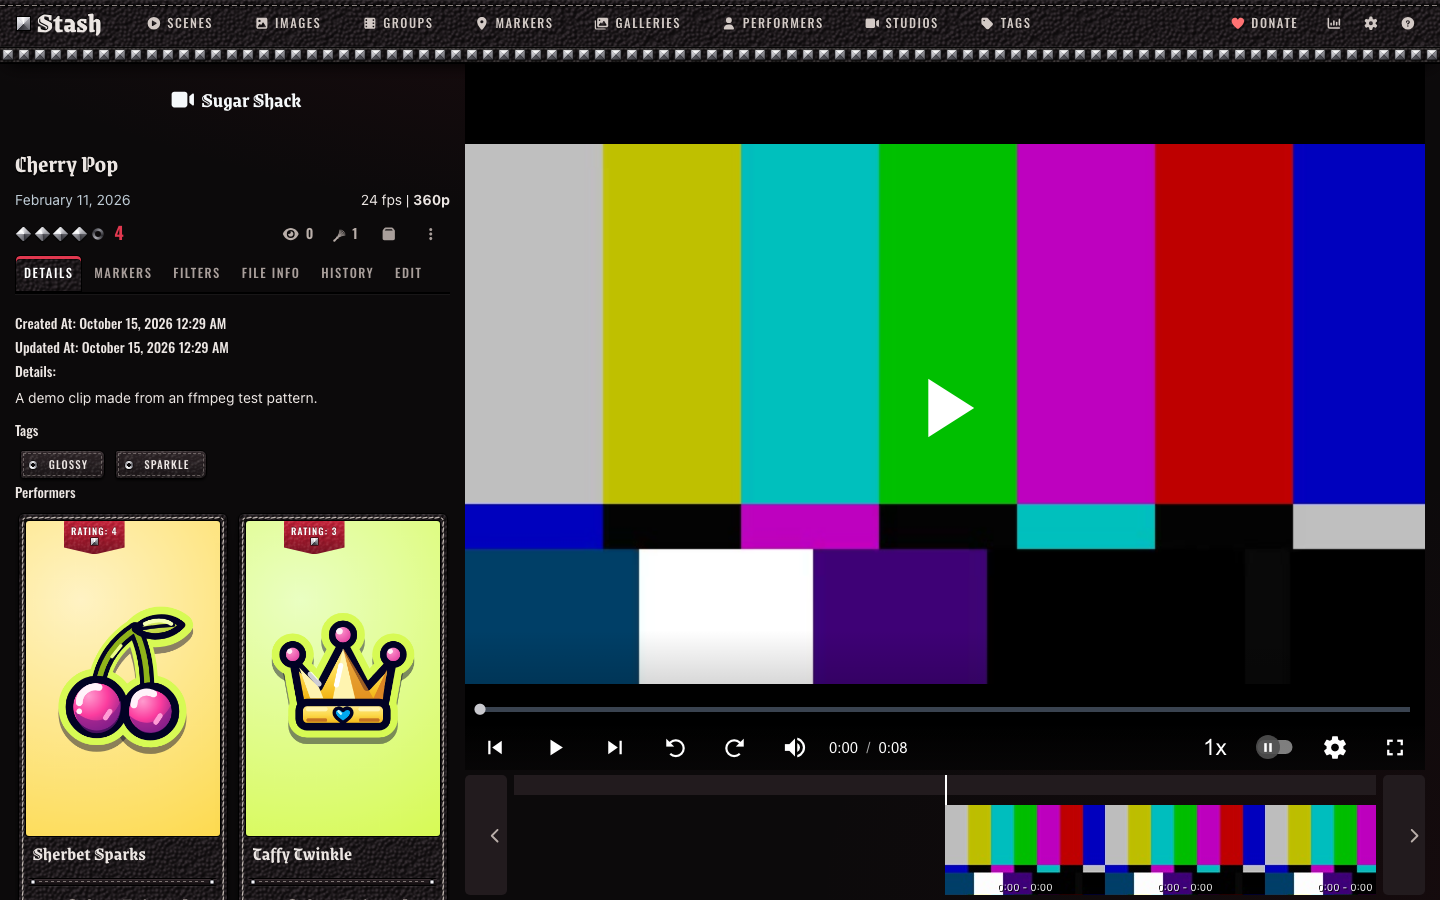
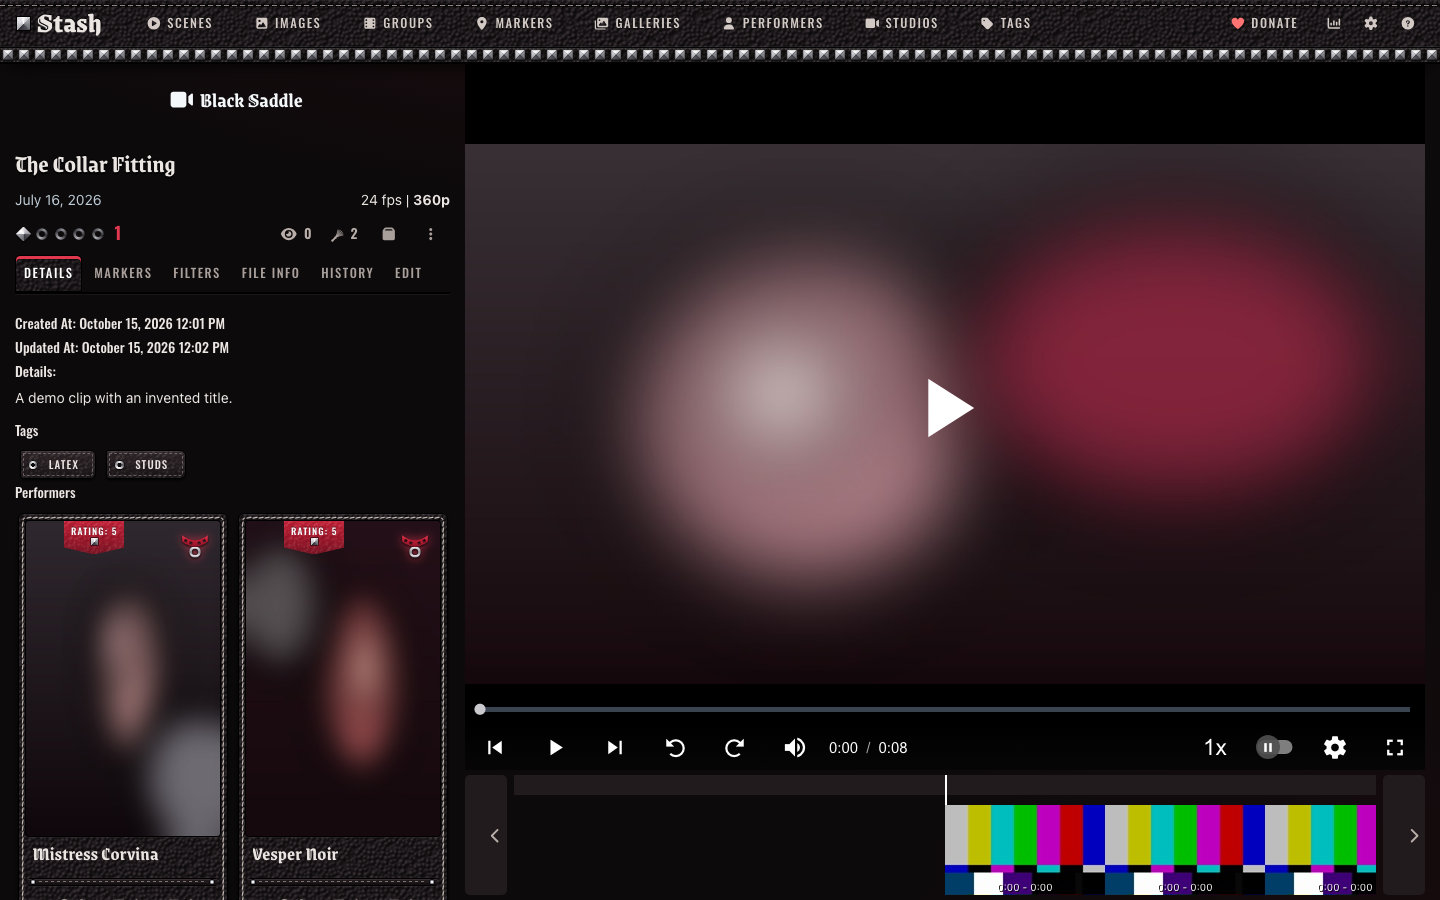
Retake Leather's README screenshots with leather names
The demo library is shared with Juicy's tests, so Leather's screenshots
showed candy names, a CandyDB stash-box and Juicy's stickers. These are
taken on a throwaway Stash v0.31.1 whose demo names, stash-box and
pictures were swapped for leather ones and soft-focus colour stand-ins
for the shots only; the test fixtures are unchanged.

diff --git a/plugins/leather/README.md b/plugins/leather/README.md
@@ -47,7 +47,7 @@ Leather makes no network requests beyond your own Stash server. Its fonts, Grenz
 
 <img src="docs/screenshots/phone.png" alt="The scenes page at phone width, with the navbar docked at the bottom" width="260">
 
-The demo library uses invented names, clips and stills made from ffmpeg test patterns, and Juicy's stickers as performer portraits.
+The demo library uses invented names and clips made from ffmpeg test patterns, with soft-focus colour stand-ins for its pictures.
 
 ## Made with AI
 
